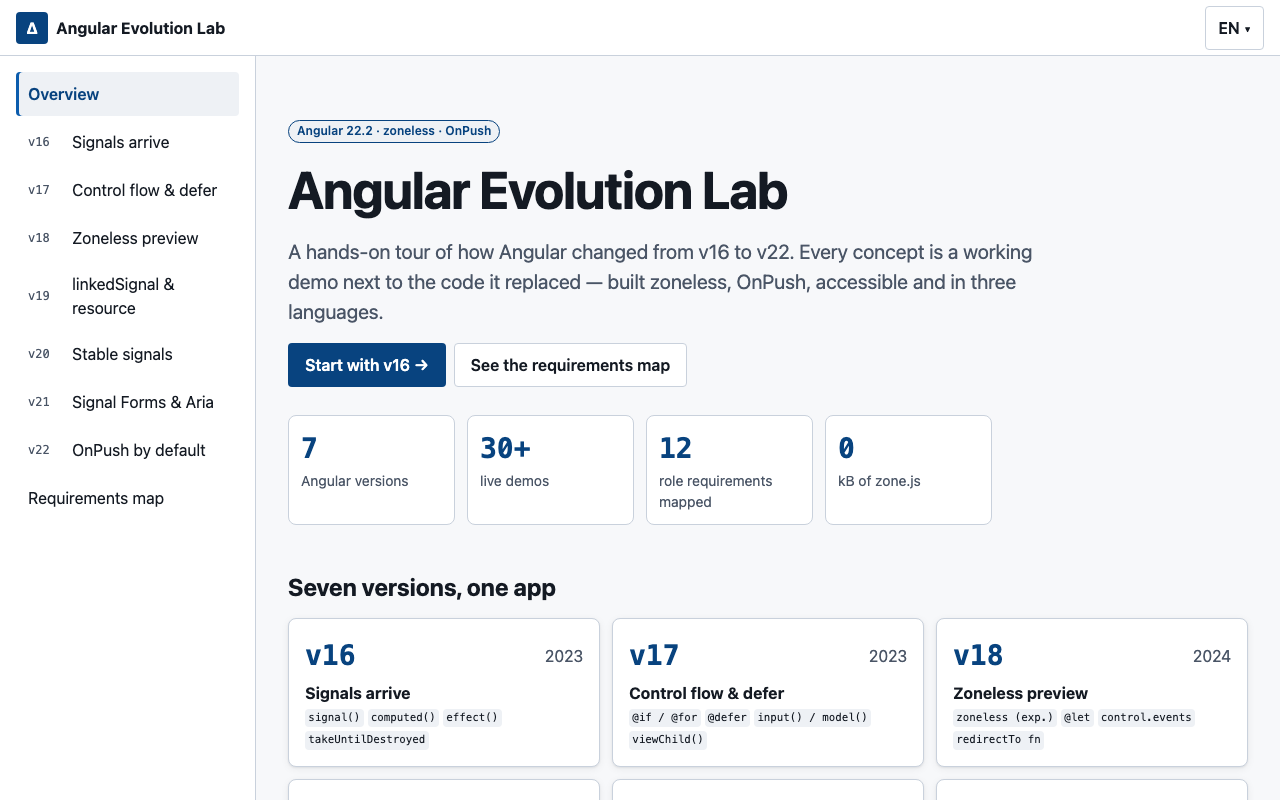
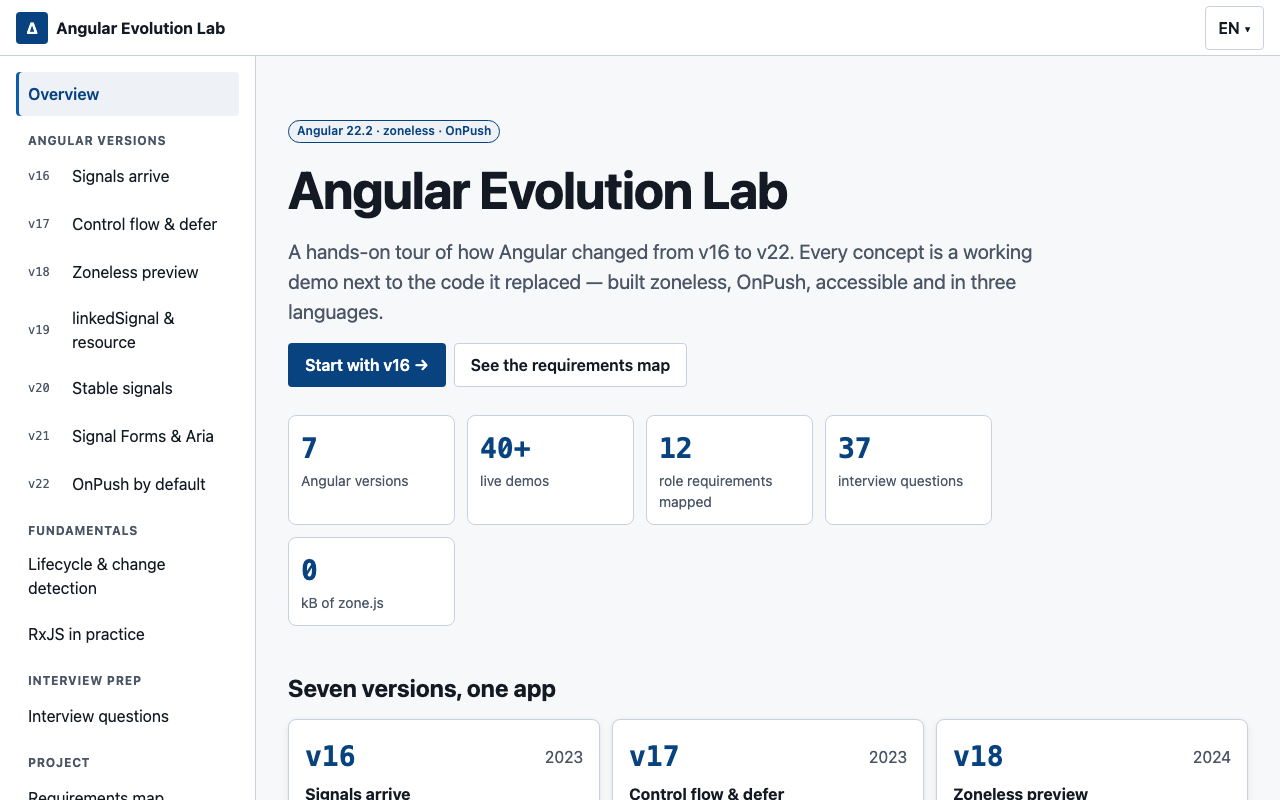
docs: document the fundamentals and interview sections
README: new section table, in-app jumps, screenshots, updated
requirements map. AGENTS.md: demo anchor ids, measured claims
and where interview questions live.

diff --git a/README.md b/README.md
@@ -43,6 +43,30 @@ npm start          # http://localhost:4200
 
 ![v22: OnPush child skipped while the Eager child is checked with its parent](docs/screenshots/v22-onpush-dark.png)
 
+## Fundamentals and interview prep
+
+| Route        | What it covers                                                                                                                                                                                                                                                                                                                 |
+| ------------ | ------------------------------------------------------------------------------------------------------------------------------------------------------------------------------------------------------------------------------------------------------------------------------------------------------------------------------ |
+| `/lifecycle` | Live hook log (classic hooks and `effect`/`afterNextRender`/`afterRenderEffect`/`DestroyRef`, in real call order) · classic → modern mapping with render phases · a six-node OnPush/Eager tree that counts which views refresh · root, component and route injector lifetimes and `NG0203`                                     |
+| `/rxjs`      | `switchMap`/`mergeMap`/`concatMap`/`exhaustMap` on one animated timeline · cold, `shareReplay`, `Subject`, `BehaviorSubject`, `ReplaySubject` with late subscribers · a synchronous burst seen by a `Subject` vs `toObservable`/`effect` · where to put `catchError` and `retry` · a subscription leak vs `takeUntilDestroyed` |
+| `/interview` | 37 interview questions in four topics with a one-sentence answer, the reasoning, optional code and a **See it live** link to the demo that proves it. Search (accent-insensitive, per language), topic and level filters, and a practice mode that hides answers                                                               |
+
+Every claim on these pages is measured by its spec, not copied from the docs: the hook order, the set
+of refreshed views and the operator outcomes are asserted in Jest, and the jump from a question to its
+demo and back is covered in Playwright. A spec also fails if a question links to a route or anchor that
+does not exist.
+
+![Lifecycle: an event in Leaf A2 refreshes its path and the Eager branch, not the OnPush leaves](docs/screenshots/lifecycle-tree.png)
+
+![RxJS: the same five clicks through the four flattening operators](docs/screenshots/rxjs-flattening.png)
+
+![Interview prep in practice mode, dark theme: one answer revealed with its code and live example](docs/screenshots/interview.png)
+
+**In-app jumps.** Each demo host has a stable `id` (`<app-cd-strategy-demo id="cd-strategy-demo" />`).
+`AnchorFocus` waits for that element to render, scrolls it below the sticky header, moves focus to it
+and highlights it (a static ring with reduced motion). A link can carry a return target in the router
+state, and the shell then shows a floating "Back to the question" link until the section changes.
+
 ## Architecture
 
 ```
@@ -53,12 +77,12 @@ src/app/
 │   ├── i18n/        LanguageService, provideI18n(), TranslatedTitleStrategy
 │   ├── layout/      Shell (skip link, loading bar), Sidenav (isActive), LanguageSwitcher
 │   ├── models/      ProblemDetails, LoadState<T> (discriminated union), domain types
-│   └── navigation/  the single list of routes used by the sidenav and E2E
+│   └── navigation/  the single list of routes (sidenav, E2E) and AnchorFocus (in-app jumps)
 ├── shared/
 │   ├── ui/          design system: button, card, badge, tabs/menu/listbox (Angular Aria),
 │   │                dialog, form-field, code-compare, cd-counter
 │   └── pipes/       EurPipe (Intl.NumberFormat per UI language)
-└── features/    one lazy route per version + home + requirements
+└── features/    one lazy route per version, lifecycle, rxjs, interview, home, requirements
 src/styles/      _tokens · _breakpoints · _mixins · _a11y · _demos (all via @use)
 public/          i18n/{en,es,de}.json · mock-api/*.json
 e2e/             Playwright specs
@@ -80,8 +104,9 @@ narrows to `data` or `error` and impossible states cannot be represented.
 Swapping in a real backend means removing the last interceptor and setting `API_BASE_URL`.
 
 **Change detection.** No `zone.js`, no `provideZoneChangeDetection`, and components rely on the v22
-OnPush default. Only two components opt into `ChangeDetectionStrategy.Eager`, both on purpose and with
-a lint-disable comment explaining why: the CD counter and the Eager side of the v22 comparison.
+OnPush default. The only components that opt into `ChangeDetectionStrategy.Eager` are the check
+counters and the Eager side of the comparisons (`/v22`, `/lifecycle`), each with a lint-disable comment
+explaining why.
 
 **i18n.** `ngx-translate` with `provideTranslateService` + HTTP loader (via `HttpBackend`, so
 translations never toggle the loading bar). The language is picked from storage, then the browser,
@@ -154,20 +179,20 @@ The same table is rendered at `/requirements`. Both come from
 
 <!-- requirements:start -->
 
-| Requirement                                                                                                                      | Demo                                                                                                                                                                   | Tests                                                                                                                                                                                                                                                                                                                                                                                                                                                  |
-| -------------------------------------------------------------------------------------------------------------------------------- | ---------------------------------------------------------------------------------------------------------------------------------------------------------------------- | ------------------------------------------------------------------------------------------------------------------------------------------------------------------------------------------------------------------------------------------------------------------------------------------------------------------------------------------------------------------------------------------------------------------------------------------------------ |
-| **Modern Angular** — Standalone components, signals, built-in control flow, OnPush by default.                                   | signal · computed · effect (`/v16`)<br>@for with track and @empty (`/v17`)<br>OnPush by default vs Eager (`/v22`)                                                      | [`cart-demo.spec.ts`](src/app/features/v16-signals/cart-demo.spec.ts)<br>[`for-demo.spec.ts`](src/app/features/v17-control-flow/for-demo.spec.ts)<br>[`cd-strategy-demo.spec.ts`](src/app/features/v22-maturity/cd-strategy-demo.spec.ts)                                                                                                                                                                                                              |
-| **TypeScript in strict mode** — strict + strictTemplates, discriminated unions for loading states, exhaustive @switch.           | withComponentInputBinding (`/v16`)<br>@switch — grouped @case and @default never (`/v22`)                                                                              | [`input-binding-demo.spec.ts`](src/app/features/v16-signals/input-binding-demo.spec.ts)<br>[`delivery-demo.spec.ts`](src/app/features/v22-maturity/delivery-demo.spec.ts)                                                                                                                                                                                                                                                                              |
-| **RxJS where it adds value** — Debounce, cancellation and streams — bridged to signals with toSignal/toObservable.               | toSignal + debounceTime + switchMap (`/v16`)<br>DestroyRef · takeUntilDestroyed (`/v16`)<br>rxResource() — vehicles by fuel type (`/v19`)                              | [`search-demo.spec.ts`](src/app/features/v16-signals/search-demo.spec.ts)<br>[`destroy-demo.spec.ts`](src/app/features/v16-signals/destroy-demo.spec.ts)<br>[`v19-linked-resource.spec.ts`](src/app/features/v19-linked-resource/v19-linked-resource.spec.ts)                                                                                                                                                                                          |
-| **State management with signals** — linkedSignal, resource, rxResource, httpResource and chained resources.                      | linkedSignal — country → city (`/v19`)<br>resource() — dealers in the selected city (`/v19`)<br>Resource API (stable) · debounced() · chain() (`/v22`)                 | [`v19-linked-resource.spec.ts`](src/app/features/v19-linked-resource/v19-linked-resource.spec.ts)<br>[`resources-demo.spec.ts`](src/app/features/v22-maturity/resources-demo.spec.ts)                                                                                                                                                                                                                                                                  |
-| **Complex forms and validation** — Reactive Forms events, Signal Forms, server-side errors mapped to fields.                     | control.events — unified form events (`/v18`)<br>Signal Forms — contact a dealer (`/v21`)<br>Test-drive booking — Reactive Forms vs Signal Forms (`/v22`)              | [`form-events-demo.spec.ts`](src/app/features/v18-zoneless/form-events-demo.spec.ts)<br>[`dealer-contact-form.spec.ts`](src/app/features/v21-signal-forms/dealer-contact-form.spec.ts)<br>[`test-drive.spec.ts`](src/app/features/v22-maturity/test-drive/test-drive.spec.ts)                                                                                                                                                                          |
-| **REST integration and error handling** — Interceptors for base URL, loading state, RFC 9457 Problem Details and a mock backend. | httpResource — loading, error, empty, reload (`/v20`)<br>withComponentInputBinding (`/v16`)                                                                            | [`http-resource-demo.spec.ts`](src/app/features/v20-stable-signals/http-resource-demo.spec.ts)<br>[`error.interceptor.spec.ts`](src/app/core/http/error.interceptor.spec.ts)<br>[`mock-backend.interceptor.spec.ts`](src/app/core/http/mock-backend.interceptor.spec.ts)<br>[`api-base-url.interceptor.spec.ts`](src/app/core/http/api-base-url.interceptor.spec.ts)<br>[`loading.interceptor.spec.ts`](src/app/core/http/loading.interceptor.spec.ts) |
-| **Performance** — Lazy routes, @defer, zoneless change detection, lazy services and bundle budgets.                              | @defer (on viewport) (`/v17`)<br>Zoneless change detection (`/v18`)<br>@Service() + injectAsync() with prefetch (`/v22`)<br>@defer (on idle(2000)) (`/v22`)            | [`defer-demo.spec.ts`](src/app/features/v17-control-flow/defer-demo.spec.ts)<br>[`zoneless-demo.spec.ts`](src/app/features/v18-zoneless/zoneless-demo.spec.ts)<br>[`lazy-service-demo.spec.ts`](src/app/features/v22-maturity/lazy-service-demo.spec.ts)<br>[`defer-idle-demo.spec.ts`](src/app/features/v22-maturity/defer-idle-demo.spec.ts)<br>[`demos.spec.ts`](e2e/demos.spec.ts)                                                                 |
-| **Advanced routing** — Input binding, functional redirects, route injector cleanup, isActive().                                  | withComponentInputBinding (`/v16`)<br>redirectTo as a function (`/v18`)<br>Automatic cleanup of route injectors (`/v21`)<br>isActive() in the side navigation (`/v22`) | [`v18.routes.spec.ts`](src/app/features/v18-zoneless/v18.routes.spec.ts)<br>[`cleanup-demo.spec.ts`](src/app/features/v21-signal-forms/cleanup-demo.spec.ts)<br>[`is-active-demo.spec.ts`](src/app/features/v22-maturity/is-active-demo.spec.ts)<br>[`sidenav.spec.ts`](src/app/core/layout/sidenav.spec.ts)                                                                                                                                           |
-| **Accessibility (WCAG 2.1 AA)** — Angular Aria widgets, skip link, labelled forms, keyboard support, axe in E2E.                 | Angular Aria — accessible headless widgets (`/v21`)<br>input() · model() · output() (`/v17`)                                                                           | [`aria-demo.spec.ts`](src/app/features/v21-signal-forms/aria-demo.spec.ts)<br>[`shell.spec.ts`](src/app/core/layout/shell.spec.ts)<br>[`form-field.spec.ts`](src/app/shared/ui/form-field/form-field.spec.ts)<br>[`a11y.spec.ts`](e2e/a11y.spec.ts)<br>[`keyboard.spec.ts`](e2e/keyboard.spec.ts)                                                                                                                                                      |
-| **Internationalisation** — EN / ES / DE with ngx-translate, html lang and translated titles, key-parity tests.                   | Internationalisation · EN / ES / DE (`/`)                                                                                                                              | [`i18n-keys.spec.ts`](src/app/core/i18n/i18n-keys.spec.ts)<br>[`language.service.spec.ts`](src/app/core/i18n/language.service.spec.ts)<br>[`translated-title-strategy.spec.ts`](src/app/core/i18n/translated-title-strategy.spec.ts)<br>[`i18n.spec.ts`](e2e/i18n.spec.ts)                                                                                                                                                                             |
-| **Reusable design system** — Tokens and themed components shared by every demo, with content projection fallbacks.               | Angular Aria — accessible headless widgets (`/v21`)<br>ng-content fallback (`/v18`)                                                                                    | [`tabs.spec.ts`](src/app/shared/ui/tabs/tabs.spec.ts)<br>[`listbox.spec.ts`](src/app/shared/ui/listbox/listbox.spec.ts)<br>[`menu-button.spec.ts`](src/app/shared/ui/menu/menu-button.spec.ts)<br>[`dialog.spec.ts`](src/app/shared/ui/dialog/dialog.spec.ts)                                                                                                                                                                                          |
-| **Testing culture** — Jest + Testing Library with 80 % minimum coverage, Playwright E2E across three browsers.                   | This requirements map (`/requirements`)                                                                                                                                | [`requirements.spec.ts`](src/app/features/requirements/requirements.spec.ts)<br>[`smoke.spec.ts`](e2e/smoke.spec.ts)<br>[`demos.spec.ts`](e2e/demos.spec.ts)                                                                                                                                                                                                                                                                                           |
+| Requirement                                                                                                                      | Demo                                                                                                                                                                                                                                                      | Tests                                                                                                                                                                                                                                                                                                                                                                                                                                                                                 |
+| -------------------------------------------------------------------------------------------------------------------------------- | --------------------------------------------------------------------------------------------------------------------------------------------------------------------------------------------------------------------------------------------------------- | ------------------------------------------------------------------------------------------------------------------------------------------------------------------------------------------------------------------------------------------------------------------------------------------------------------------------------------------------------------------------------------------------------------------------------------------------------------------------------------- |
+| **Modern Angular** — Standalone components, signals, built-in control flow, OnPush by default.                                   | signal · computed · effect (`/v16`)<br>@for with track and @empty (`/v17`)<br>OnPush by default vs Eager (`/v22`)<br>Change detection tree (`/lifecycle`)                                                                                                 | [`cart-demo.spec.ts`](src/app/features/v16-signals/cart-demo.spec.ts)<br>[`for-demo.spec.ts`](src/app/features/v17-control-flow/for-demo.spec.ts)<br>[`cd-strategy-demo.spec.ts`](src/app/features/v22-maturity/cd-strategy-demo.spec.ts)<br>[`cd-tree-demo.spec.ts`](src/app/features/lifecycle/cd-tree-demo.spec.ts)                                                                                                                                                                |
+| **TypeScript in strict mode** — strict + strictTemplates, discriminated unions for loading states, exhaustive @switch.           | withComponentInputBinding (`/v16`)<br>@switch — grouped @case and @default never (`/v22`)                                                                                                                                                                 | [`input-binding-demo.spec.ts`](src/app/features/v16-signals/input-binding-demo.spec.ts)<br>[`delivery-demo.spec.ts`](src/app/features/v22-maturity/delivery-demo.spec.ts)                                                                                                                                                                                                                                                                                                             |
+| **RxJS where it adds value** — Debounce, cancellation and streams — bridged to signals with toSignal/toObservable.               | toSignal + debounceTime + switchMap (`/v16`)<br>DestroyRef · takeUntilDestroyed (`/v16`)<br>rxResource() — vehicles by fuel type (`/v19`)<br>switchMap vs mergeMap vs concatMap vs exhaustMap (`/rxjs`)<br>Errors, retry and a stream that dies (`/rxjs`) | [`search-demo.spec.ts`](src/app/features/v16-signals/search-demo.spec.ts)<br>[`destroy-demo.spec.ts`](src/app/features/v16-signals/destroy-demo.spec.ts)<br>[`v19-linked-resource.spec.ts`](src/app/features/v19-linked-resource/v19-linked-resource.spec.ts)<br>[`flattening-demo.spec.ts`](src/app/features/rxjs/flattening-demo.spec.ts)<br>[`errors-demo.spec.ts`](src/app/features/rxjs/errors-demo.spec.ts)<br>[`leaks-demo.spec.ts`](src/app/features/rxjs/leaks-demo.spec.ts) |
+| **State management with signals** — linkedSignal, resource, rxResource, httpResource and chained resources.                      | linkedSignal — country → city (`/v19`)<br>resource() — dealers in the selected city (`/v19`)<br>Resource API (stable) · debounced() · chain() (`/v22`)                                                                                                    | [`v19-linked-resource.spec.ts`](src/app/features/v19-linked-resource/v19-linked-resource.spec.ts)<br>[`resources-demo.spec.ts`](src/app/features/v22-maturity/resources-demo.spec.ts)                                                                                                                                                                                                                                                                                                 |
+| **Complex forms and validation** — Reactive Forms events, Signal Forms, server-side errors mapped to fields.                     | control.events — unified form events (`/v18`)<br>Signal Forms — contact a dealer (`/v21`)<br>Test-drive booking — Reactive Forms vs Signal Forms (`/v22`)                                                                                                 | [`form-events-demo.spec.ts`](src/app/features/v18-zoneless/form-events-demo.spec.ts)<br>[`dealer-contact-form.spec.ts`](src/app/features/v21-signal-forms/dealer-contact-form.spec.ts)<br>[`test-drive.spec.ts`](src/app/features/v22-maturity/test-drive/test-drive.spec.ts)                                                                                                                                                                                                         |
+| **REST integration and error handling** — Interceptors for base URL, loading state, RFC 9457 Problem Details and a mock backend. | httpResource — loading, error, empty, reload (`/v20`)<br>withComponentInputBinding (`/v16`)                                                                                                                                                               | [`http-resource-demo.spec.ts`](src/app/features/v20-stable-signals/http-resource-demo.spec.ts)<br>[`error.interceptor.spec.ts`](src/app/core/http/error.interceptor.spec.ts)<br>[`mock-backend.interceptor.spec.ts`](src/app/core/http/mock-backend.interceptor.spec.ts)<br>[`api-base-url.interceptor.spec.ts`](src/app/core/http/api-base-url.interceptor.spec.ts)<br>[`loading.interceptor.spec.ts`](src/app/core/http/loading.interceptor.spec.ts)                                |
+| **Performance** — Lazy routes, @defer, zoneless change detection, lazy services and bundle budgets.                              | @defer (on viewport) (`/v17`)<br>Zoneless change detection (`/v18`)<br>@Service() + injectAsync() with prefetch (`/v22`)<br>@defer (on idle(2000)) (`/v22`)                                                                                               | [`defer-demo.spec.ts`](src/app/features/v17-control-flow/defer-demo.spec.ts)<br>[`zoneless-demo.spec.ts`](src/app/features/v18-zoneless/zoneless-demo.spec.ts)<br>[`lazy-service-demo.spec.ts`](src/app/features/v22-maturity/lazy-service-demo.spec.ts)<br>[`defer-idle-demo.spec.ts`](src/app/features/v22-maturity/defer-idle-demo.spec.ts)<br>[`demos.spec.ts`](e2e/demos.spec.ts)                                                                                                |
+| **Advanced routing** — Input binding, functional redirects, route injector cleanup, isActive().                                  | withComponentInputBinding (`/v16`)<br>redirectTo as a function (`/v18`)<br>Automatic cleanup of route injectors (`/v21`)<br>isActive() in the side navigation (`/v22`)                                                                                    | [`v18.routes.spec.ts`](src/app/features/v18-zoneless/v18.routes.spec.ts)<br>[`cleanup-demo.spec.ts`](src/app/features/v21-signal-forms/cleanup-demo.spec.ts)<br>[`is-active-demo.spec.ts`](src/app/features/v22-maturity/is-active-demo.spec.ts)<br>[`sidenav.spec.ts`](src/app/core/layout/sidenav.spec.ts)                                                                                                                                                                          |
+| **Accessibility (WCAG 2.1 AA)** — Angular Aria widgets, skip link, labelled forms, keyboard support, axe in E2E.                 | Angular Aria — accessible headless widgets (`/v21`)<br>input() · model() · output() (`/v17`)                                                                                                                                                              | [`aria-demo.spec.ts`](src/app/features/v21-signal-forms/aria-demo.spec.ts)<br>[`shell.spec.ts`](src/app/core/layout/shell.spec.ts)<br>[`form-field.spec.ts`](src/app/shared/ui/form-field/form-field.spec.ts)<br>[`a11y.spec.ts`](e2e/a11y.spec.ts)<br>[`keyboard.spec.ts`](e2e/keyboard.spec.ts)                                                                                                                                                                                     |
+| **Internationalisation** — EN / ES / DE with ngx-translate, html lang and translated titles, key-parity tests.                   | Internationalisation · EN / ES / DE (`/`)                                                                                                                                                                                                                 | [`i18n-keys.spec.ts`](src/app/core/i18n/i18n-keys.spec.ts)<br>[`language.service.spec.ts`](src/app/core/i18n/language.service.spec.ts)<br>[`translated-title-strategy.spec.ts`](src/app/core/i18n/translated-title-strategy.spec.ts)<br>[`i18n.spec.ts`](e2e/i18n.spec.ts)                                                                                                                                                                                                            |
+| **Reusable design system** — Tokens and themed components shared by every demo, with content projection fallbacks.               | Angular Aria — accessible headless widgets (`/v21`)<br>ng-content fallback (`/v18`)                                                                                                                                                                       | [`tabs.spec.ts`](src/app/shared/ui/tabs/tabs.spec.ts)<br>[`listbox.spec.ts`](src/app/shared/ui/listbox/listbox.spec.ts)<br>[`menu-button.spec.ts`](src/app/shared/ui/menu/menu-button.spec.ts)<br>[`dialog.spec.ts`](src/app/shared/ui/dialog/dialog.spec.ts)                                                                                                                                                                                                                         |
+| **Testing culture** — Jest + Testing Library with 80 % minimum coverage, Playwright E2E across three browsers.                   | This requirements map (`/requirements`)                                                                                                                                                                                                                   | [`requirements.spec.ts`](src/app/features/requirements/requirements.spec.ts)<br>[`smoke.spec.ts`](e2e/smoke.spec.ts)<br>[`demos.spec.ts`](e2e/demos.spec.ts)                                                                                                                                                                                                                                                                                                                          |
 
 <!-- requirements:end -->
 

diff --git a/AGENTS.md b/AGENTS.md
@@ -23,8 +23,19 @@ Instructions for AI coding agents (and humans) changing this repo.
 - File names follow the v20+ style guide: `vehicle-list.ts`, not `vehicle-list.component.ts`.
 - SCSS with `@use` (never `@import`) and CSS custom properties from `src/styles/_tokens.scss` —
   no hard-coded colours in component styles.
-- Each demo lives in `src/app/features/vNN-*/`, shows a `<app-code-compare>` and has a spec. Code
-  shown as "before" goes in that feature's `snippets.ts` (excluded from `check:legacy`).
+- Each demo lives in a feature folder (`vNN-*`, `lifecycle`, `rxjs`), shows a `<app-code-compare>` and
+  has a spec. Code shown as "before" goes in that feature's `snippets.ts` (excluded from `check:legacy`).
+- Every demo host on a page gets a stable `id` ending in `-demo`: it is the target of in-app jumps
+  (`routerLink` + `fragment`, handled by `AnchorFocus`). Do not rename one without updating its links.
+- Explanatory text must describe measured behaviour: if a demo claims an order or a count, its spec
+  asserts it.
+
+## Interview questions
+
+Metadata lives in `features/interview/questions.ts`, text in i18n under `interview.q.<id>.{q,short,long}`
+and optional code in `features/interview/snippets.ts`. `short` is one sentence to say out loud; `long`
+is the reasoning. `interview.spec.ts` fails if a question has no text or links to a route or anchor that
+does not exist.
 
 ## i18n
 
